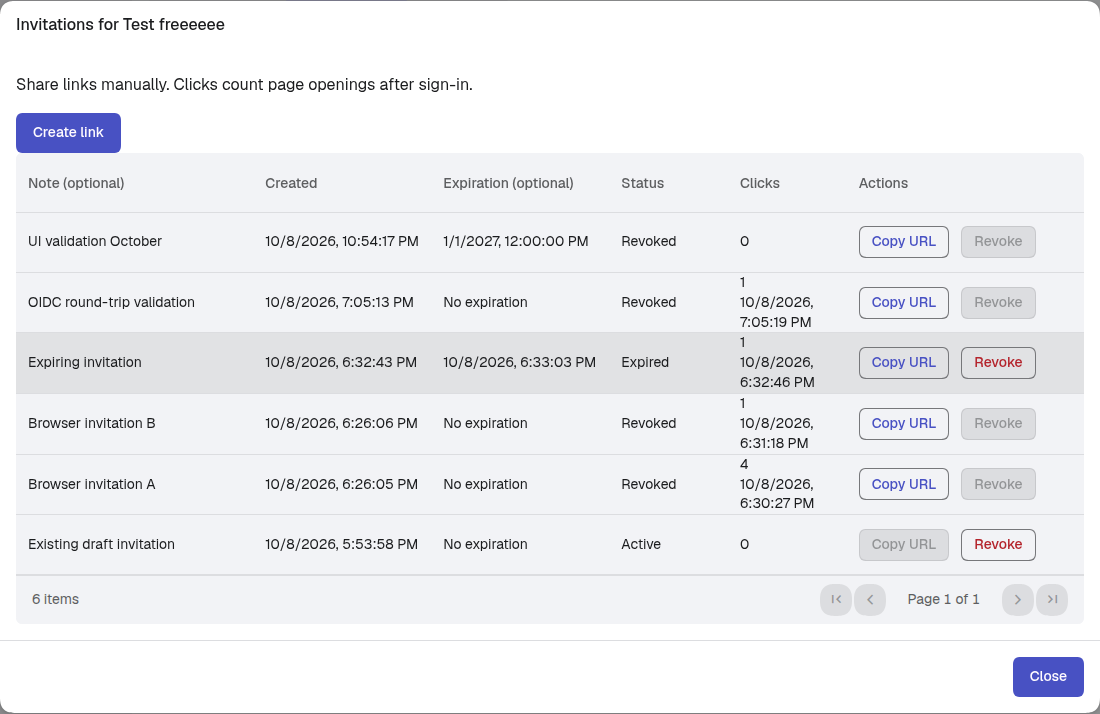
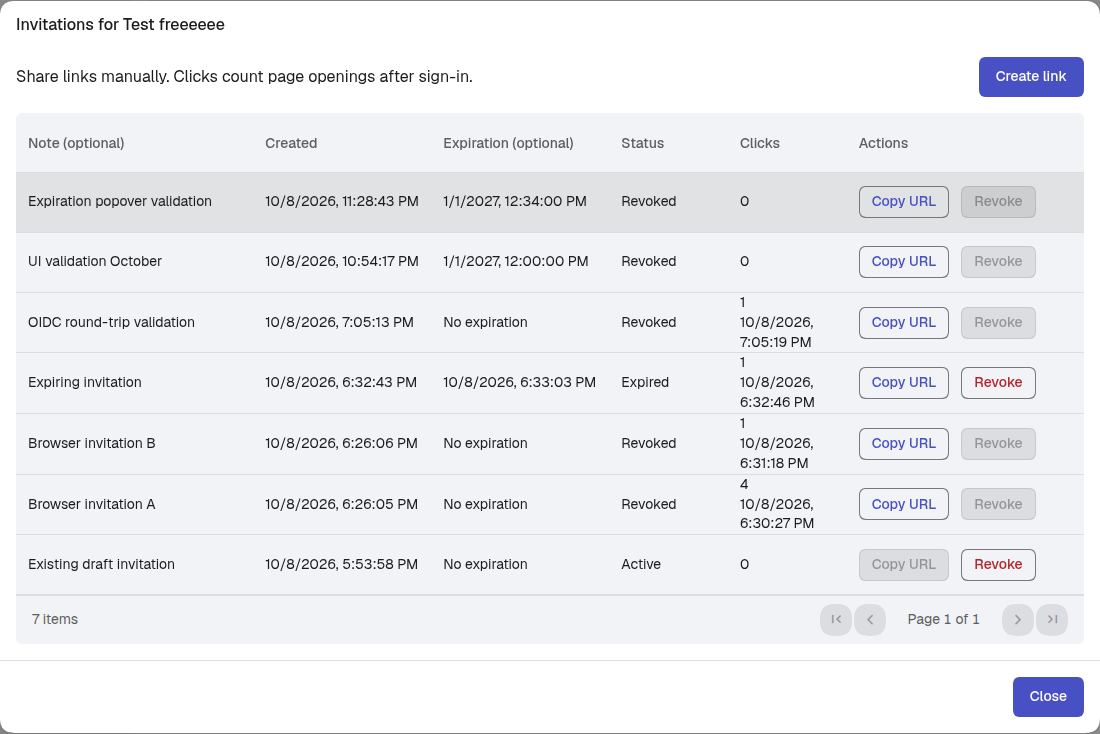
impr(#2965): space the invitation creation toolbar

diff --git a/apps/frontend/src/rework/components/pages/admin/PlatformAccessPage/PlatformAccessLinkManager.tsx b/apps/frontend/src/rework/components/pages/admin/PlatformAccessPage/PlatformAccessLinkManager.tsx
@@ -120,21 +120,23 @@ export default function PlatformAccessLinkManager({
         }}
       >
         <div className={styles.dialogBody}>
-          <p>{t("rework.platformAccess.links.hint")}</p>
+          <div className={styles.linkToolbar}>
+            <p>{t("rework.platformAccess.links.hint")}</p>
+            <Button
+              color="primary"
+              variant="filled"
+              size="medium"
+              disabled={busy || !team.free}
+              onClick={() => {
+                setFailed(false);
+                setCopyStatus(undefined);
+                setView("create");
+              }}
+            >
+              {t("rework.platformAccess.createLink")}
+            </Button>
+          </div>
           {!team.free && <p role="status">{t("rework.platformAccess.links.suspendedHint")}</p>}
-          <Button
-            color="primary"
-            variant="filled"
-            size="medium"
-            disabled={busy || !team.free}
-            onClick={() => {
-              setFailed(false);
-              setCopyStatus(undefined);
-              setView("create");
-            }}
-          >
-            {t("rework.platformAccess.createLink")}
-          </Button>
           {copyStatus === "copied" && <p role="status">{t("rework.platformAccess.links.copied")}</p>}
           {failed && <p role="alert">{t("rework.platformAccess.failed")}</p>}
           {links.isError && (

diff --git a/apps/frontend/src/rework/components/pages/admin/PlatformAccessPage/PlatformAccessPage.module.css b/apps/frontend/src/rework/components/pages/admin/PlatformAccessPage/PlatformAccessPage.module.css
@@ -139,6 +139,21 @@
   grid-template-columns: minmax(0, 1fr);
   gap: var(--spacing-s);
 }
+.linkToolbar {
+  display: flex;
+  flex-wrap: wrap;
+  align-items: center;
+  gap: var(--spacing-m);
+  margin-bottom: var(--spacing-m);
+}
+.linkToolbar > p {
+  flex: 1 1 20rem;
+  margin: 0;
+  min-width: 0;
+}
+.linkToolbar > button {
+  margin-inline-start: auto;
+}
 .linkOutput {
   margin-top: var(--spacing-s);
 }

diff --git a/docs/swift/ux/COMPONENT-UX.md b/docs/swift/ux/COMPONENT-UX.md
@@ -5192,7 +5192,7 @@ The page groups administration into Rules, Users, and Teams and links using the 
 
 Users use the team-members table presentation with identifier/email, first name, last name and independent provenance. Manual selection has no 100-user ceiling and persists across searches/pages. Unknown identities reject an entire grant, without duplicating or overwriting existing exceptions. The explicit one-time **Import existing users** action remains under Users; completed imports cannot restore removed exceptions. Team authorization uses live membership rather than permanent copies, so membership removal withdraws that global source on the next request.
 
-Manage links opens paginated history with Clicks, lifecycle dates/status and Copy URL actions. Create link opens a separate form with note followed by optional expiration, using the KPI selector's popover presentation and shared date/time input. The expiration panel provides one future timestamp, Apply, future duration shortcuts and No expiration; it stays inside the dialog, and Escape dismisses only the selector. Creation success shows the original URL with Copy URL. History recovery writes the original URL to the clipboard; success is announced only after writing, and rejection retains a selectable URL with a manual-copy fallback. URLs and reusable mutation payloads are transient and cleared on dismissal. Revocation requires confirmation and stops future enrollment while preserving existing membership. Free suspension disables creation but retains history, copying and revocation.
+Manage links opens paginated history with Clicks, lifecycle dates/status and Copy URL actions. Create link sits at the right of a wrapping toolbar with spacing before the table. It opens a separate form with note followed by optional expiration, using the KPI selector's popover presentation and shared date/time input. The expiration panel provides one future timestamp, Apply, future duration shortcuts and No expiration; it stays inside the dialog, and Escape dismisses only the selector. Creation success shows the original URL with Copy URL. History recovery writes the original URL to the clipboard; success is announced only after writing, and rejection retains a selectable URL with a manual-copy fallback. URLs and reusable mutation payloads are transient and cleared on dismissal. Revocation requires confirmation and stops future enrollment while preserving existing membership. Free suspension disables creation but retains history, copying and revocation.
 
 `PlatformAccessDeniedPage` and `FreeEnrollmentPage` render outside the protected shell and its bootstrap/CGU guards. Refusal shows shared `contactSupportLink`, retry and sign-out; Free and profile use the same branding property. Enrollment preserves the path through OIDC, exposes only the named team's invitation and required terms, then reloads protected state after successful membership. Only the specific admission refusal triggers the denial route; service outages and unrelated authorization errors retain their own handling. Behavioral requirements: `openspec/specs/platform-access-control/spec.md`.
 
